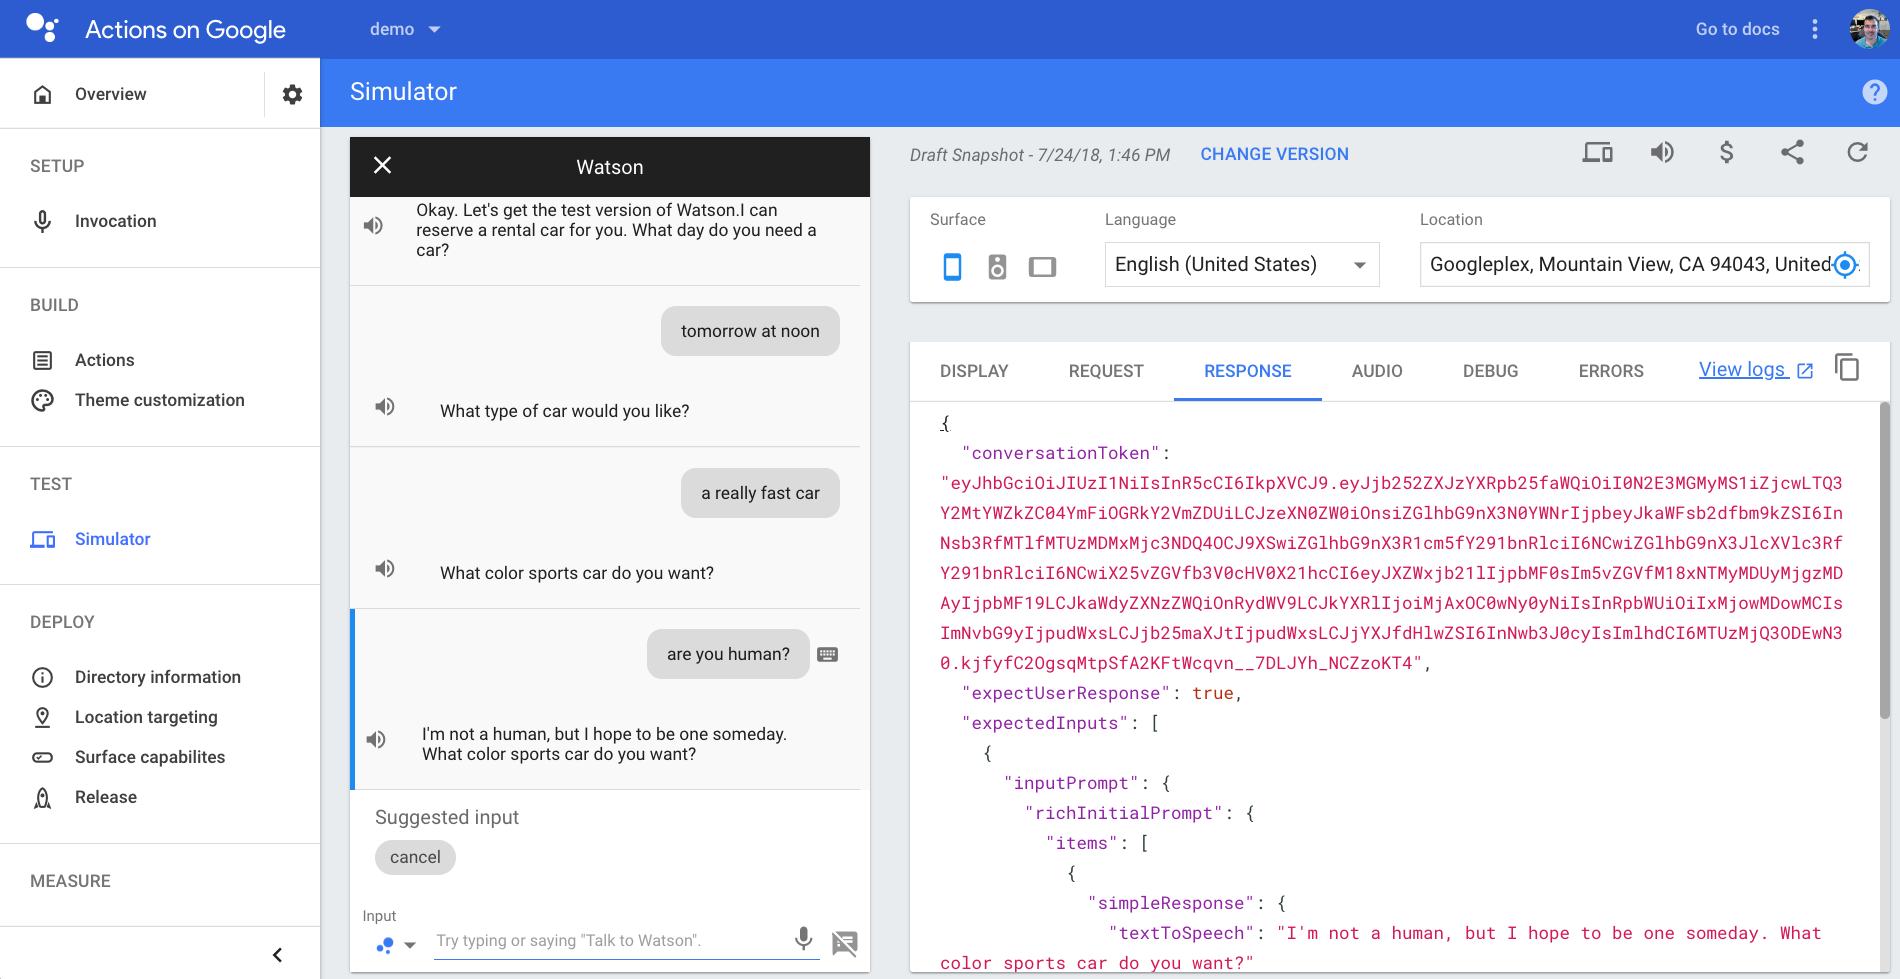
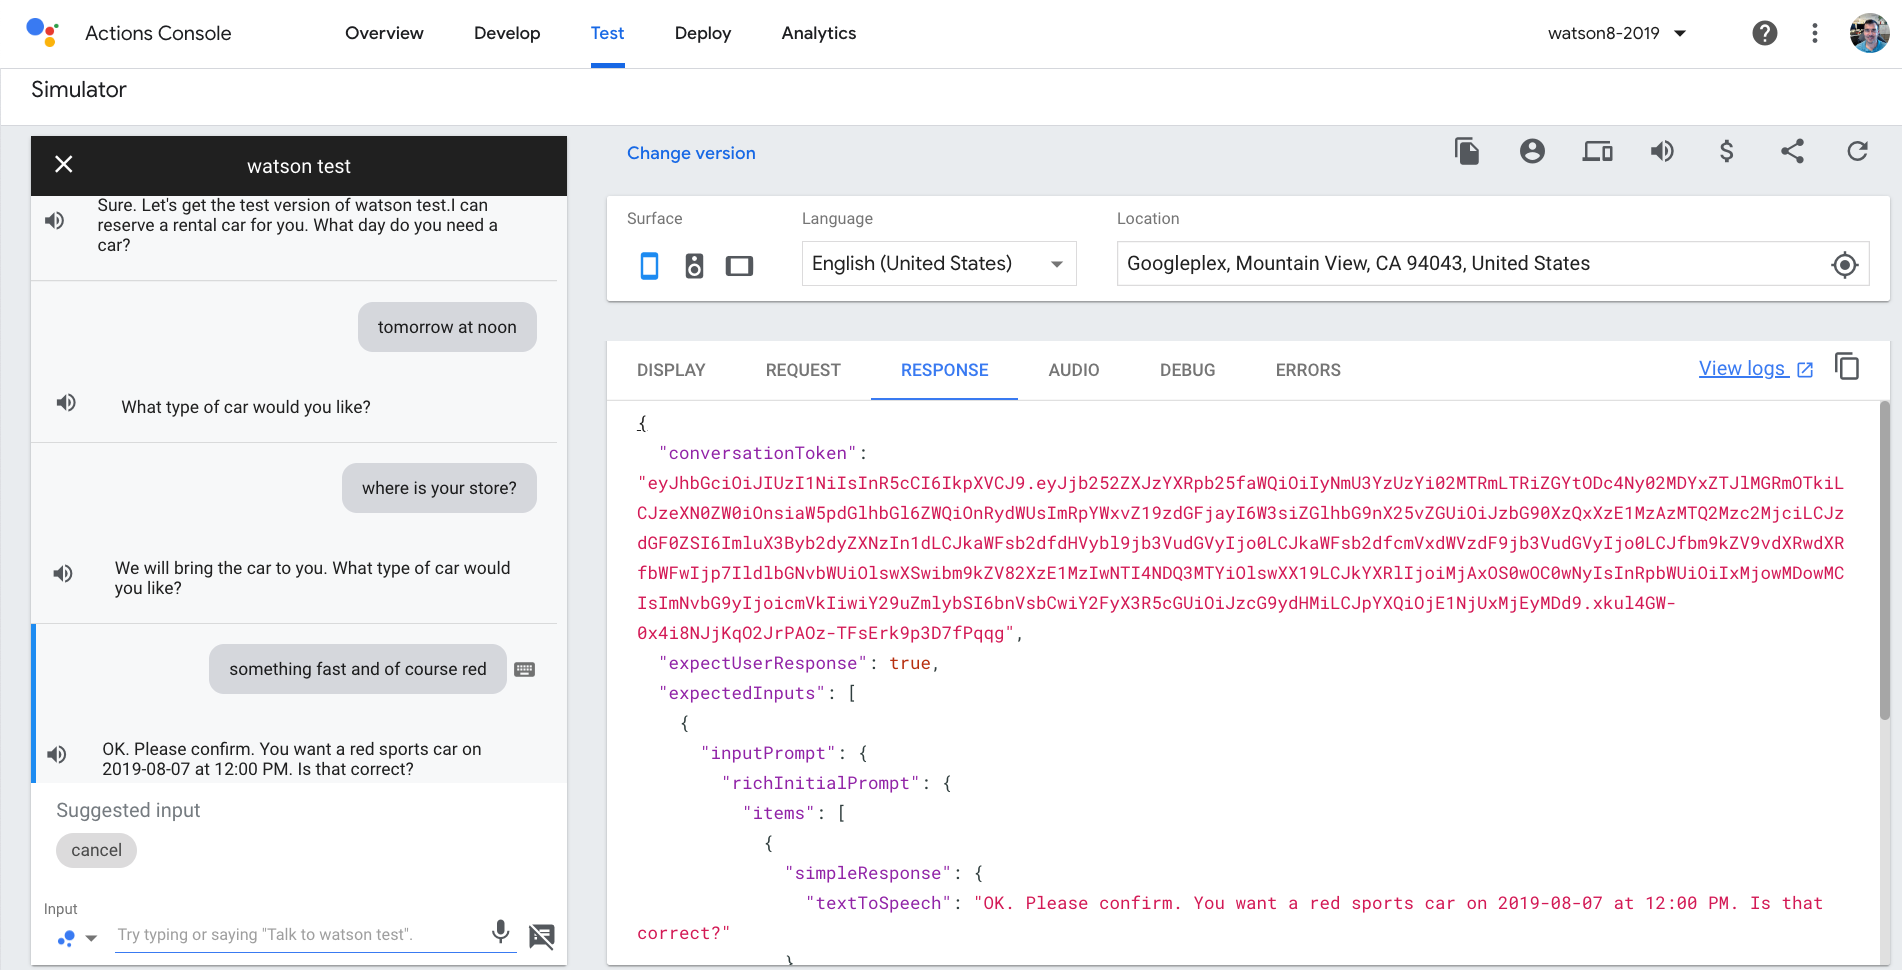
Update the instructions for the latest google UI
* The google dev console has changed. Some instruction changes needed.

diff --git a/README.md b/README.md
@@ -43,30 +43,30 @@ When the reader has completed this code pattern, they will understand how to:
 
 2. In Toolchains, click on Delivery Pipeline to watch while the app is deployed.
 
-3. To see the app and service created and configured for this code pattern, use the IBM Cloud dashboard. The app is named `watson-google-assistant` with a unique suffix. The following service is created and easily identified by the `wga-` prefix:
-    * wga-assistant
+3. To see the app and service created and configured for this code pattern, use the IBM Cloud dashboard. The app is named `watson-google-assistant` with a unique suffix. A Watson Assistant service is created and connected to the app. The `rent-a-car` skill is automatically imported.
 
 ## Setup Google Actions
 
 1. Go to [Actions on Google Developer Console](https://console.actions.google.com)
 
 1. Create your project
-   * Click on `+ Add/import project`
+   * Click on `New project`
    * Enter a project name
    * Choose the default language for your Actions
    * Select your country or region
-   * Click on `CREATE PROJECT`
-   * Click on `SKIP` to choose a category later
-
-1. Obtain your project ID
-   * Next to the `Overview` menu item, click on the gear icon and then `Project settings`.
-   * Save the `Project ID` to use later.
+   * Click on `Create project`
+   * Click on the `Actions SDK` card
+   * Click `OK`
 
 1. Set the invocation name
 
-   * Use the left sidebar menu to select `SETUP` > `Invocation`.
+   * Under `Quick setup`, click `Decide how your Action is invoked`.
    * Enter a display name. Users will say or type this name to explicitly invoke your action.
-   * Hit `SAVE`.
+   * Hit `Save`.
+
+1. Obtain your project ID
+   * Click on the vertical 3 dots next to your account avatar and go to `Project settings`.
+   * Save the `Project ID` to use later.
 
 1. Clone the repo
 
@@ -89,7 +89,7 @@ When the reader has completed this code pattern, they will understand how to:
 
 1. Edit the `actions/action.json` file in your local repo.
    * Edit the `url` using your deployed IBM Cloud app URL. Typically, you would just modify the timestamp digits and region.
-     > Note: URL needs `https://` prefix e.g. `https://watson-google-assistant-20180707012345678.us-east.mybluemix.net/`
+     > Note: URL needs `https://` prefix e.g. `https://watson-google-assistant-20190707012345678.us-east.mybluemix.net/`
 
 1. Create the action using the CLI
    > Note: If/when it prompts you to enter an authorization code, browse to the provided URL to login and authorize the CLI to use your account and copy/paste the auth code at the prompt.
@@ -107,7 +107,7 @@ When the reader has completed this code pattern, they will understand how to:
 1. Test it in the simulator
 
    * Go back to your Actions on Google Developer Console
-   * Use the left sidebar menu to select `TEST` > `Simulator` and start testing
+   * Use the `Test` tab and start testing
    * Type in the `Input` box or click on the microphone icon to use voice input
    * Say "Talk to my test app" or "Talk to \<your app name\>" to initiate the conversation
 
